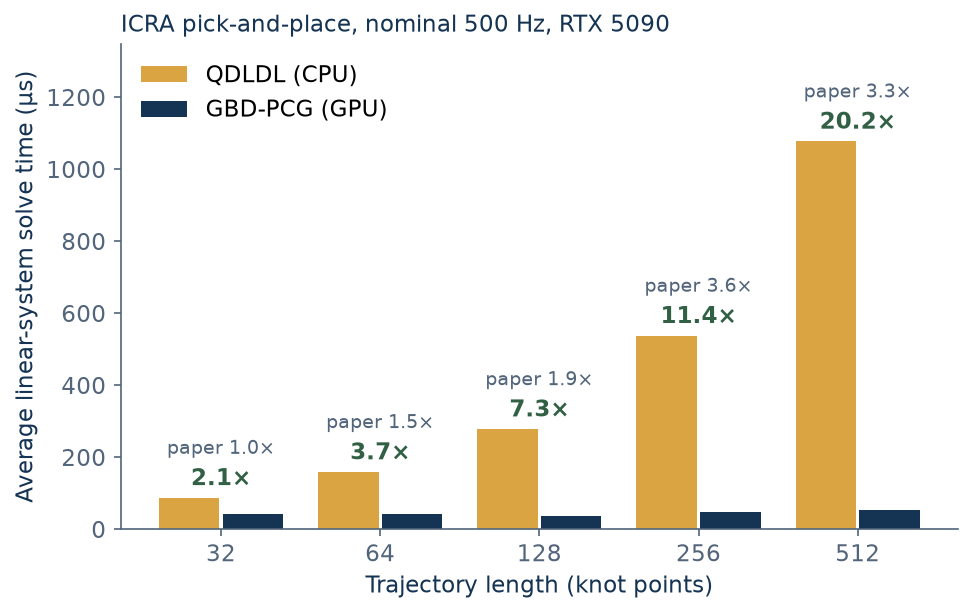
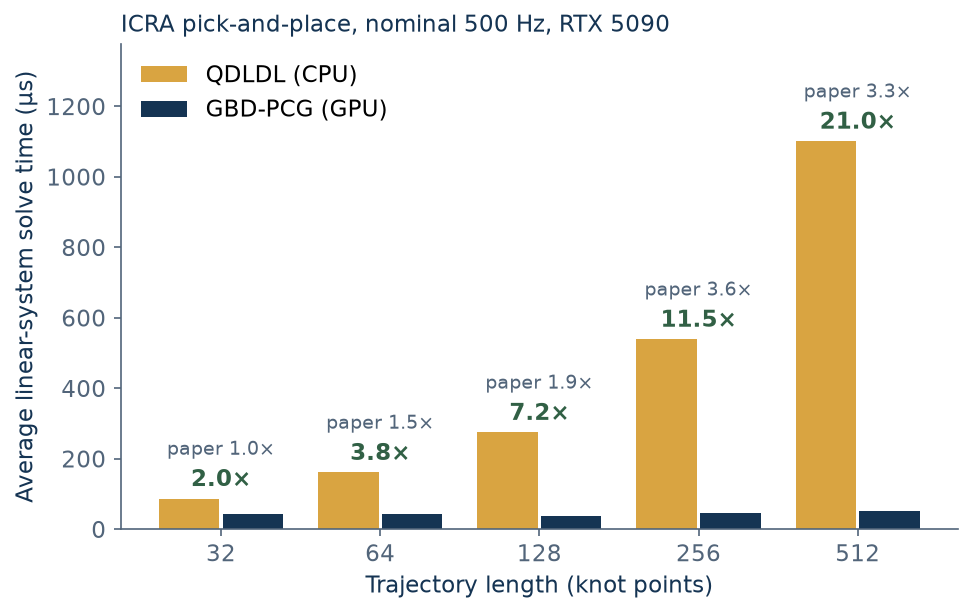
Re-date timing results to the October 6 release-pin collection

diff --git a/docs/index.html b/docs/index.html
@@ -29,7 +29,7 @@
   </div></section>
   <section class="section wrap" id="results">
     <div class="eyebrow">02 / RESULTS</div>
-    <div class="research-grid"><div><h2>A solver designed<br>for longer horizons.</h2><p>MPCGPU solves the structured linear systems in nonlinear MPC with GPU-accelerated PCG. On the five-goal pick-and-place task from our paper, the October 5 experiment compares GBD-PCG with CPU QDLDL on an NVIDIA RTX 5090.</p><p>GBD-PCG averages <strong>38–53 µs per linear-system solve</strong> at every horizon from 32 to 512 knot points, <strong>2.1× to 20.2× faster</strong> than QDLDL. The iteration sweep evaluates nominal simulated control rates up to 1 kHz; it does not establish complete-controller deadline compliance.</p><p>The gain over the published results comes mainly from fewer PCG iterations per solve. A Gauss-Newton cost Hessian and a corrected horizon update make the controller's linear systems easier, GLASS makes each iteration slightly cheaper, and the SQP driver removes redundant waits while retaining the host line-search decision. <a class="text-link" href="https://github.com/A2R-Lab/MPCGPU/blob/main/docs/speedup-attribution.md">How the results changed ↗</a></p><a class="text-link" href="https://github.com/A2R-Lab/MPCGPU/blob/main/docs/icra-replication.md">Read the protocol and complete results ↗</a><aside class="evidence"><strong>October 5 measurements</strong><p>RTX 5090 · Intel Core Ultra 9 285K · measured October 5, 2026, three repeats per configuration on <code>a684e78</code>. Repaired PCG telemetry is complete. These measurements precede the latest dependency update. Every ICRA configuration recorded internal-SQP deadline overruns; the replicated task also leaves joint limits disabled. These are research results, not hardware-feasibility certificates. Historical results for the original code, on an RTX 4090 with CUDA 12.1, are in <a href="https://arxiv.org/abs/2309.08079">our ICRA 2024 paper</a>.</p></aside></div><figure><img src="assets/current-linsys-time.png" width="972" height="613" loading="lazy" alt="Current average linear-system solve times for CPU QDLDL and GPU GBD-PCG from 32 to 512 knot points; GBD-PCG stays between 38 and 53 microseconds while QDLDL grows to 1100 microseconds."><figcaption>Average linear-system solve time on the pick-and-place task at a nominal simulated 500 Hz, October 5 source. Grey labels give the paper's speedups.</figcaption></figure></div>
+    <div class="research-grid"><div><h2>A solver designed<br>for longer horizons.</h2><p>MPCGPU solves the structured linear systems in nonlinear MPC with GPU-accelerated PCG. On the five-goal pick-and-place task from our paper, the October 6 experiment compares GBD-PCG with CPU QDLDL on an NVIDIA RTX 5090.</p><p>GBD-PCG averages <strong>38–52 µs per linear-system solve</strong> at every horizon from 32 to 512 knot points, <strong>2.0× to 21.0× faster</strong> than QDLDL. The iteration sweep evaluates nominal simulated control rates up to 1 kHz; it does not establish complete-controller deadline compliance.</p><p>The gain over the published results comes mainly from fewer PCG iterations per solve. A Gauss-Newton cost Hessian and a corrected horizon update make the controller's linear systems easier, GLASS makes each iteration slightly cheaper, and the SQP driver removes redundant waits while retaining the host line-search decision. <a class="text-link" href="https://github.com/A2R-Lab/MPCGPU/blob/main/docs/speedup-attribution.md">How the results changed ↗</a></p><a class="text-link" href="https://github.com/A2R-Lab/MPCGPU/blob/main/docs/icra-replication.md">Read the protocol and complete results ↗</a><aside class="evidence"><strong>October 6 measurements</strong><p>RTX 5090 · Intel Core Ultra 9 285K · measured October 6, 2026, three repeats per configuration on <code>fa9f005</code> with the released GRiD/GLASS pins. Repaired PCG telemetry is complete. These measurements precede the latest dependency update. Every ICRA configuration recorded internal-SQP deadline overruns; the replicated task also leaves joint limits disabled. These are research results, not hardware-feasibility certificates. Historical results for the original code, on an RTX 4090 with CUDA 12.1, are in <a href="https://arxiv.org/abs/2309.08079">our ICRA 2024 paper</a>.</p></aside></div><figure><img src="assets/current-linsys-time.png" width="972" height="613" loading="lazy" alt="Current average linear-system solve times for CPU QDLDL and GPU GBD-PCG from 32 to 512 knot points; GBD-PCG stays between 38 and 53 microseconds while QDLDL grows to 1100 microseconds."><figcaption>Average linear-system solve time on the pick-and-place task at a nominal simulated 500 Hz, October 6 source. Grey labels give the paper's speedups.</figcaption></figure></div>
     <figure class="wide-figure"><img src="assets/current-sqp-iterations.png" width="1564" height="475" loading="lazy" alt="Average SQP iterations per control step at 250 Hz, 500 Hz and 1 kHz for QDLDL and GBD-PCG across horizons, with the paper's values beneath each cell."><figcaption>SQP iterations per nominal simulated control step, with a solver time budget. This is not a deadline-compliance chart; QDLDL loses tracking at 512 knots and a nominal 1 kHz.</figcaption></figure>
   </section>
   <section class="software section" id="software"><div class="wrap">

diff --git a/docs/icra-replication.md b/docs/icra-replication.md
@@ -66,7 +66,7 @@ backends, including N = 32 PCG with the current tighter default tolerance.
 These are simulated goal-tracking checks, not feasibility certificates: all
 eight additional trials exceed URDF velocity limits (peak ratios 4.18–6.67),
 and four also exceed position limits. The historical table below retains its
-original date and settings. October 5 timing uses repaired telemetry. After the
+original date and settings. October 5 and 6 timing use repaired telemetry. After the
 dependency update, eight further N32/128/256/512 trials pass with identical
 pre-update state hashes; N64 repeats are covered by the full 100-test receipt.
 Those correctness checks do not measure the new pins.
@@ -93,23 +93,25 @@ Repeated trials are bit-identical: the signed-suite gates run two trials at N = 
 for each backend and compare state hashes. The paper reports about 10 cm average L1
 error; every configuration here stays below that.
 
-## Timing results (October 5, 2026)
+## Timing results (October 6, 2026)
 
-Collected on source `a684e78`, GRiD `0a14c0f` and GLASS `8ce68a2` on the
-RTX 5090 / Core Ultra 9 285K host. All 126 ICRA and 60 figure-eight repeats were
-revalidated against raw statistics, tracking streams, plan and binary hashes.
-The latest GRiD `8dccbfa` / GLASS `9e57178` pins are correctness-verified but
-not measured here. Artifacts: `tmp/timing/audit-20261004-DRfuv2/{icra,fig8}`
-(local, not in Git). The coordinator stopped at its post-ICRA quiet check;
-subsequent legs completed after fresh checks, not in one uninterrupted run.
+Collected on the release candidate — source `fa9f005` (receipt `22d6cec`), GRiD
+`8dccbfa` and GLASS `9e57178` — on the RTX 5090 / Core Ultra 9 285K host, in one
+assigned exclusive window with the ICRA, figure-eight and GATO legs back to back.
+All 126 ICRA and 60 figure-eight repeats were revalidated against raw statistics,
+tracking streams, plan and binary hashes. Artifacts:
+`tmp/timing/release-20261005-9fa3Ue/{icra,fig8}` (local, not in Git). The
+October 5 collection on the previous pins (`a684e78`, GRiD `0a14c0f`, GLASS
+`8ce68a2`; `tmp/timing/audit-20261004-DRfuv2`) agrees with every table below
+within repeat spread: Figure 4 means within 1 µs for PCG and 2% for QDLDL.
 
 October 3 PCG iteration/exit telemetry was incomplete after graph replay;
-October 5 uses repaired, complete streams. Historical raw files are unchanged.
+October 5 and 6 use repaired, complete streams. Historical raw files are unchanged.
 
 The iteration-rate grid uses fixed simulation periods and a soft wall-clock SQP
 budget, not measured complete-controller deadlines. Every ICRA repeat has
-internal-SQP overruns (65.1–100% of updates). PCG at N512/1 kHz has medians of
-1157–1158 µs and p99 values of 1680–1689 µs. Pending GPU work must finish after
+internal-SQP overruns (65.0–100% of updates). PCG at N512/1 kHz has medians of
+1158–1159 µs and p99 values of 1678–1685 µs. Pending GPU work must finish after
 a time check; the timer also excludes the entry device wait and caller work.
 QDLDL loses tracking at N512/1 kHz in all three repeats (maximum error 1.612 m).
 
@@ -119,7 +121,7 @@ previous driver (`4317690`, `tmp/timing/fixedcost-main-20261003-115140`), which 
 October 1 tables within 2 µs at every horizon. That experiment isolated the driver change
 ([speedup-attribution.md](speedup-attribution.md) section 4): the linear-system time no longer
 includes two blocking statistics copies (−9 to −13 µs per solve) and each SQP step is shorter, so
-more iterations fit a control period. October 5 retains that solver design and
+more iterations fit a control period. October 6 retains that solver design and
 has similar means, but is not a controlled A/B against October 3. The paper used an RTX 4090, an
 i9-12900K and CUDA 12.1, and the model and EE frame have since been corrected. Compare ratios and
 trends, not raw latency.
@@ -128,14 +130,14 @@ trends, not raw latency.
 
 | N | QDLDL (µs) | GBD-PCG (µs) | Speedup | Paper speedup | PCG mean L2 error (m) |
 | ---: | ---: | ---: | ---: | ---: | ---: |
-| 32 | 88 | 43 | 2.1× | 1.0× | 0.0400 |
-| 64 | 160 | 43 | 3.7× | 1.5× | 0.0644 |
-| 128 | 279 | 38 | 7.3× | 1.9× | 0.0107 |
-| 256 | 538 | 47 | 11.4× | 3.6× | 0.0113 |
-| 512 | 1078 | 53 | 20.2× | 3.3× | 0.0132 |
+| 32 | 87 | 43 | 2.0× | 1.0× | 0.0401 |
+| 64 | 161 | 43 | 3.8× | 1.5× | 0.0651 |
+| 128 | 275 | 38 | 7.2× | 1.9× | 0.0107 |
+| 256 | 539 | 47 | 11.5× | 3.6× | 0.0112 |
+| 512 | 1101 | 52 | 21.0× | 3.3× | 0.0132 |
 
-Across the three repeats, the per-repeat means spread by at most 6.6% of their mean for PCG and
-2.6% for QDLDL. These are means of per-repeat means; 37–59% of PCG solves take
+Across the three repeats, the per-repeat means spread by at most 8.5% of their mean for PCG and
+6.8% for QDLDL. These are means of per-repeat means; 37–59% of PCG solves take
 zero iterations from their warm start, making medians much lower.
 Before the October 3 driver change the same workloads gave 55 / 54 / 49 / 57 / 65 µs
 (1.6–16.5×) in the same window. The tables are printed by `tools/icra_tables.py` from the run directory. GBD-PCG time stays nearly flat with horizon here, so the speedups are much
@@ -144,14 +146,14 @@ per solve, from controller fixes; GLASS and the new GPU contribute little.
 
 ### Figure 5: solve-time distribution at N = 128
 
-QDLDL: median 279 µs, fastest 267 µs, 99.9th percentile 317 µs, slowest 1513 µs. Tails are
+QDLDL: median 273 µs, fastest 266 µs, 99.9th percentile 302 µs, slowest 1555 µs. Tails are
 compared with the 99.9th percentile so that single outliers do not dominate.
 
 | ε | Median (µs) | Mean (µs) | ≥10× faster than fastest QDLDL | Paper | Slowest / QDLDL p99.9 | ≥2× QDLDL p99.9 | Mean L2 error (m) |
 | --- | ---: | ---: | ---: | ---: | ---: | ---: | ---: |
-| 10⁻⁴ | 11 | 38 | 83% | 65% | 8.6× | 0.9% | 0.0107 |
-| 5·10⁻⁵ | 11 | 46 | 79% | 52% | 2.8× | 1.1% | 0.0119 |
-| 10⁻⁵ | 15 | 58 | 73% | 20% | 2.7× | 1.3% | 0.0140 |
+| 10⁻⁴ | 11 | 38 | 83% | 65% | 2.9× | 1.0% | 0.0107 |
+| 5·10⁻⁵ | 11 | 46 | 79% | 52% | 4.1× | 1.2% | 0.0119 |
+| 10⁻⁵ | 15 | 58 | 73% | 20% | 5.4× | 1.5% | 0.0140 |
 
 The paper's ordering holds: tighter tolerances shift mass out of the fast mode, and PCG
 keeps a slow mode near the QDLDL time.
@@ -160,12 +162,12 @@ keeps a slow mode near the QDLDL time.
 
 | Solver | Rate | N = 32 | 64 | 128 | 256 | 512 |
 | --- | --- | ---: | ---: | ---: | ---: | ---: |
-| QDLDL | 250 Hz | 19.0 (21) | 13.8 (14) | 9.6 (8) | 5.0 (4) | 2.3 (2) |
-| QDLDL | 500 Hz | 9.0 (10) | 6.8 (6.5) | 4.4 (4) | 2.0 (2) | 1.0 (1) |
+| QDLDL | 250 Hz | 18.8 (21) | 13.7 (14) | 9.2 (8) | 5.0 (4) | 2.1 (2) |
+| QDLDL | 500 Hz | 9.0 (10) | 6.6 (6.5) | 4.7 (4) | 2.0 (2) | 1.0 (1) |
 | QDLDL | 1000 Hz | 4.0 (4) | 3.0 (3) | 2.0 (1) | 1.0 (X) | lost (X) |
-| GBD-PCG | 250 Hz | 24.2 (22.2) | 23.9 (19.7) | 20.0 (15.4) | 17.0 (5.2) | 10.4 (4.4) |
-| GBD-PCG | 500 Hz | 12.5 (10.3) | 12.5 (10.6) | 10.9 (8) | 9.3 (4.6) | 5.4 (3) |
-| GBD-PCG | 1000 Hz | 6.3 (4.9) | 6.4 (5.2) | 5.8 (3.7) | 4.9 (2.4) | 2.7 (1.7) |
+| GBD-PCG | 250 Hz | 24.2 (22.2) | 23.9 (19.7) | 19.9 (15.4) | 17.0 (5.2) | 10.8 (4.4) |
+| GBD-PCG | 500 Hz | 12.5 (10.3) | 12.5 (10.6) | 10.9 (8) | 9.3 (4.6) | 5.3 (3) |
+| GBD-PCG | 1000 Hz | 6.2 (4.9) | 6.3 (5.2) | 5.8 (3.7) | 4.9 (2.4) | 2.7 (1.7) |
 
 Paper values are in parentheses. "lost" marks QDLDL at N = 512 and 1 kHz:
 all three repeats lose tracking, and the harness records the rate as not met.
@@ -178,7 +180,7 @@ period at 500 Hz).
 ### Figure-eight workspace A/B (same source, not the paper task)
 
 Internal SQP time per control update, medians of three repeats, from
-`tmp/timing/audit-20261004-DRfuv2/fig8` (October 5 collection). Reused
+`tmp/timing/release-20261005-9fa3Ue/fig8` (October 6 collection). Reused
 workspaces keep allocations, streams, cuBLAS handles and — since October 3 — the page-locked
 result arena and the captured launch graphs; fresh ones rebuild everything per solve,
 approximating the earlier code (a per-call workspace does not page-lock or capture graphs).
@@ -187,11 +189,11 @@ Tracking is identical between the two modes. The previous driver measured 184 / 
 
 | N | PCG reused (µs) | PCG fresh (µs) | QDLDL reused (µs) | QDLDL fresh (µs) |
 | ---: | ---: | ---: | ---: | ---: |
-| 32 | 138 | 237 | 220 | 327 |
-| 64 | 133 | 233 | 276 | 410 |
-| 128 | 155 | 241 | 409 | 595 |
-| 256 | 189 | 276 | 722 | 986 |
-| 512 | 312 | 419 | 1354 | 1866 |
+| 32 | 139 | 237 | 221 | 327 |
+| 64 | 134 | 233 | 279 | 409 |
+| 128 | 155 | 241 | 409 | 594 |
+| 256 | 189 | 276 | 705 | 987 |
+| 512 | 312 | 421 | 1386 | 1849 |
 
 ## Findings
 
@@ -235,8 +237,8 @@ Tracking is identical between the two modes. The previous driver measured 184 / 
   for the main integration candidate).
 - [x] Paper-task timing manifest: `tools/timing.py prepare --task icra` builds the
   Figure 4, 5 and 6 workloads (see the timing section of [development](development.md)).
-- [x] Paper-task timing re-collected on October 5 with repaired telemetry (tables above).
-- [ ] Re-measure the new dependency pins in an assigned quiet window.
+- [x] Paper-task timing re-collected on October 5 with repaired telemetry (superseded below).
+- [x] Re-measured on the release dependency pins on October 6 (tables above).
 - [x] Paper-task timing collection on October 1 (the September 30 collection
   preceded the N = 32 tolerance change), labeled by host.
 - [x] Attribute the larger-than-published PCG speedups ([attribution](speedup-attribution.md), October 1).

diff --git a/docs/speedup-attribution.md b/docs/speedup-attribution.md
@@ -10,7 +10,7 @@ The October 1, 2026 timing on the RTX 5090 gave GBD-PCG average linear-system ti
 49–63 µs at every horizon, against 75–360 µs in the paper. QDLDL on the CPU stayed within
 about 15% of the paper, so the speedup over QDLDL grew from 1.0–3.6× to 1.6–17×. This
 document splits that change into its causes. Section 4 adds the October 3 driver change,
-after which the same workloads give 38–53 µs and 2.1–20× ([current tables](icra-replication.md)).
+after which the same workloads give 38–52 µs and 2.0–21× ([current tables](icra-replication.md)).
 
 Average PCG solve time is iterations per solve times time per iteration, plus a fixed launch
 and copy-back cost. Each factor was measured separately.

diff --git a/README.md b/README.md
@@ -88,8 +88,8 @@ guarantee.
 Current scope is research software: synchronous C++ calls, one caller per
 workspace, and simulated tracking examples. Solver time budgets are soft;
 deadline-aware fallback and a joint-feasible demonstration remain development
-work. The latest timing evidence is dated October 5 and precedes the newest
-dependency pins; see the replication notes for provenance.
+work. The latest timing evidence is dated October 6 and was collected on the
+released dependency pins; see the replication notes for provenance.
 
 - [Current documentation and limitations](docs/README.md)
 - [C++ ownership and solver contracts](docs/api.md)

diff --git a/docs/website.md b/docs/website.md
@@ -21,7 +21,7 @@ page resolves.
 `assets/architecture.png` and `pick-place.png` are figure-region renders of Figures 2 and 3
 from our ICRA 2024 paper, arXiv:2309.08079v3 (https://arxiv.org/pdf/2309.08079).
 `assets/current-linsys-time.png` and `current-sqp-iterations.png` are rendered by
-`tools/plot_timing.py` from the October 5, 2026 timing runs of source `a684e78` (see
+`tools/plot_timing.py` from the October 6, 2026 timing runs of source `fa9f005` (see
 docs/icra-replication.md). The MPCGPU code, documentation, website and these figures are
 released under the repository's MIT license.
 
